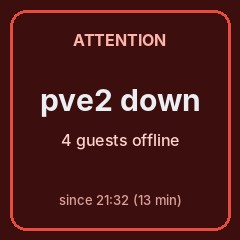
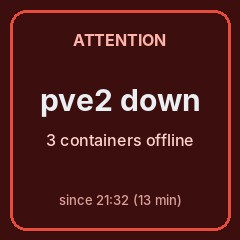
docs(esp-mini-screen): focus on 3 systems plus container and system counts; drop Proxmox API
Claude-Session: https://claude.ai/code/session_01NjuTStfS4dGjAXdo3zkW2i

Changed region(s): [[0.175, 0.5542, 0.8167, 0.6417]]

diff --git a/esp-mini-screen/docs/04-requirements.md b/esp-mini-screen/docs/04-requirements.md
@@ -16,10 +16,9 @@ firmware), first use is a **homelab status screen** fed by Beszel.
 | Source | Gives | Does not give |
 |--------|-------|---------------|
 | **Beszel hub** (PocketBase REST API, user login) | Each system with an agent: status up/down/paused, CPU, memory, disk, uptime. Docker/Podman containers per system with CPU and memory | Proxmox VMs or LXC guests (Beszel has no Proxmox API integration; guests only appear if an agent runs inside them) |
-| **Proxmox VE API** (read-only API token, `PVEAuditor` role) | Every VM and LXC across both nodes with running/stopped state; node and cluster quorum status | Docker containers inside guests |
 
 So "VMs/LXCs up" needs the Proxmox API; "hosts and Docker containers" comes from Beszel.
-Proxmox is proposed as **optional, phase 1b**: Beszel alone is enough to start.
+**Decision (owner, 2026-11-14): Beszel only.** Agents already run on both Proxmox nodes and TrueNAS, so the infrastructure hosts are covered. Per-VM/LXC state (Proxmox API) is out of scope; the screen counts containers instead.
 
 Beszel note: its docs warn the API data structure can change in minor releases. Pin the hub
 version the app is tested against and keep the Beszel client in one small module with tests.
@@ -30,22 +29,21 @@ version the app is tested against and keep the Beszel client in one small module
 |----|-------------|-------|
 | F-1 | Read all systems from Beszel: name, status, CPU %, memory %, disk %. | 1 |
 | F-2 | Read Docker containers from Beszel: count running vs expected, per host. | 1 |
-| F-3 | Render a 240x240 **overview** screen: summary tiles (guests up, containers up) and one row per host with status dot, CPU, memory and disk bars. See `assets/mock-overview.jpg`. | 1 |
+| F-3 | Render a 240x240 **overview** screen: two summary tiles, **Containers up / total** and **Systems up / total** (across all Beszel systems), and rows for the **3 focus systems** (infrastructure, e.g. pve1, pve2, NAS) with status dot, CPU %, memory bar (left) and disk bar (right). See `assets/mock-overview.jpg`. | 1 |
 | F-4 | Colour by threshold: green normal, amber >= 75 %, red >= 90 % (configurable). | 1 |
 | F-5 | **Alert override**: if any red condition holds, show a full-screen alert (`assets/mock-alert.jpg`) and alternate with the overview. | 1 |
 | F-6 | "Expected" containers: a container that was running and disappears counts as down (the app remembers the last known set; an allow-list can mark ones that are allowed to stop). | 1 |
 | F-7 | Push only when the rendered image changes; otherwise re-push at most every 15 minutes as a keep-alive. | 1 |
 | F-8 | Before pushing, check the device is on the Photo Album theme with autoplay off; log a warning if not (set it automatically once the request is known). | 1 |
-| F-9 | Read VM/LXC state from the Proxmox API and fill the "VMs/LXC" tile; a guest marked "onboot" that is stopped counts as down. | 1b |
 | F-10 | If Beszel cannot be reached, show a distinct "Beszel unreachable" screen (grey/amber), not stale green. | 1 |
 | F-11 | A minimal status page or `/health` endpoint so Beszel or the owner can see the app itself is alive. | 1 |
-| F-12 | **Settings page** (phone-friendly, LAN only): lists every system Beszel reports, with a checkbox to show it, a drag/up-down order, and an optional short display name (e.g. `truenas` → `NAS`). New systems appear unticked. | 1 |
+| F-12 | **Settings page** (phone-friendly, LAN only): lists every system Beszel reports; pick up to **3 focus systems**, their order, and an optional short display name (e.g. `truenas` → `NAS`). New systems appear unticked. | 1 |
 | F-13 | Settings page also edits: amber/red thresholds, poll interval, which containers may stop without alerting (F-6), and the screen address. | 1 |
 | F-14 | Settings page shows a **live preview** of the current 240x240 image and a "Push now" button. | 1 |
-| F-15 | Up to **3 systems** fit on the overview; if more are selected, the overview rotates through pages of 3 (interval configurable). Hidden systems still raise alerts unless "ignore alerts" is ticked for them. | 1 |
+| F-15 | Non-focus systems are not drawn as rows but are counted in the Systems tile and still raise alerts, unless "ignore alerts" is ticked for them. | 1 |
 
-Red conditions (draft, owner to confirm): a host down; a Proxmox node down or quorum lost (1b);
-an expected container or onboot guest down; disk >= 90 %; Beszel unreachable for > 5 min.
+Red conditions (draft, owner to confirm): a system down;
+an expected container down; disk >= 90 %; Beszel unreachable for > 5 min.
 
 ## Non-functional
 
@@ -53,21 +51,20 @@ an expected container or onboot guest down; disk >= 90 %; Beszel unreachable for
 |----|-------------|
 | N-1 | Runs as one small Docker container on the existing Docker LXC, next to TRMNL Calendar. |
 | N-2 | Python 3.12 + Pillow (same stack and conventions as TRMNL Calendar). |
-| N-3 | Settings (selected systems, order, names, thresholds, intervals, device address) stored in **SQLite**, edited through the settings page (as TRMNL Calendar ADR-0005/0007); **secrets only in env** (`BESZEL_URL`, `BESZEL_USER`, `BESZEL_PASSWORD`, later `PVE_TOKEN_ID`, `PVE_TOKEN_SECRET`). Nothing secret in git. |
+| N-3 | Settings (selected systems, order, names, thresholds, intervals, device address) stored in **SQLite**, edited through the settings page (as TRMNL Calendar ADR-0005/0007); **secrets only in env** (`BESZEL_URL`, `BESZEL_USER`, `BESZEL_PASSWORD`). Nothing secret in git. |
 | N-4 | Poll every 60 s (configurable). Upload under 2 s. A change appears on screen within ~1 min. |
 | N-5 | Recovers by itself after the screen, Beszel or the network restarts. |
-| N-6 | Read-only everywhere: the Beszel account and Proxmox token cannot change anything. |
+| N-6 | Read-only: the Beszel account cannot change anything. |
 | N-8 | Settings page has no login (LAN only, single user, same as TRMNL Calendar); it holds no secrets and cannot change Beszel. |
 | N-7 | Unit tests for rendering and the Beszel and Proxmox clients (with recorded fixtures); CI like TRMNL Calendar. |
 
 ## Owner set-up (when we build)
 
 1. Beszel: create user (e.g. `esp-screen`), role **read-only**, and share all systems with it.
-2. (1b) Proxmox: create user `monitoring@pve` and an API token with the `PVEAuditor` role.
-3. Pi-hole: DHCP reservation for the screen (Q-8).
-4. Screen: Photo Album theme, album autoplay off, theme auto-switch off; delete the sample images.
+2. Pi-hole: DHCP reservation for the screen (Q-8).
+3. Screen: Photo Album theme, album autoplay off, theme auto-switch off; delete the sample images.
 
 ## Out of scope (for now)
 
-Calendar or TRMNL-health screens (ideas 2 and 4), Pi-hole stats (idea 3), night mode, touch or
+Proxmox API / per-VM and LXC state, calendar or TRMNL-health screens (ideas 2 and 4), Pi-hole stats (idea 3), night mode, touch or
 buttons, Home Assistant.

diff --git a/esp-mini-screen/docs/02-open-questions.md b/esp-mini-screen/docs/02-open-questions.md
@@ -6,7 +6,7 @@
 | Q-2 | **Mostly answered 2026-11-14, see `03-device-api.md`** (upload + set image verified; theme/brightness strings pending). Stock firmware HTTP API: how to upload an image and select it; size and format limits; does it keep working when left in "photo" mode? | Spike: browse the web UI, capture its requests, upload a test 240x240 JPEG | Approach A |
 | Q-3 | **Answered: office, desk or rack; owner only.** Where will it sit (desk, kitchen, rack)? Who looks at it? | Owner | Which idea first |
 | Q-4 | Which signals deserve "red"? (e.g. a Proxmox node down, disk > 90 %, Pi-hole down, backup missed) | Owner | Idea 1 |
-| Q-5 | **Partly answered: yes for hosts and Docker; VMs/LXCs need the Proxmox API (see `04`). Owner will create an app account.** Does Beszel expose what we need over its API, and with what credentials (read-only user)? | Read Beszel docs; try with a read-only account | Idea 1 |
-| Q-6 | Is Home Assistant on the roadmap? | Owner | Approach B |
+| Q-5 | **Partly answered: yes for hosts and Docker; owner chose Beszel only: 3 focus systems + container and system counts (see `04`). Owner will create an app account.** Does Beszel expose what we need over its API, and with what credentials (read-only user)? | Read Beszel docs; try with a read-only account | Idea 1 |
+| Q-6 | Is Home Assistant on the roadmap? (Not needed for the chosen direction.) | Owner | Approach B |
 | Q-7 | Night mode: dim or off overnight? Does the stock firmware allow brightness control over HTTP? | Spike | Comfort |
 | Q-8 | Pi-hole DHCP reservation for the screen (as for the TRMNL, P-1) | Owner, in Pi-hole | Deployment |
